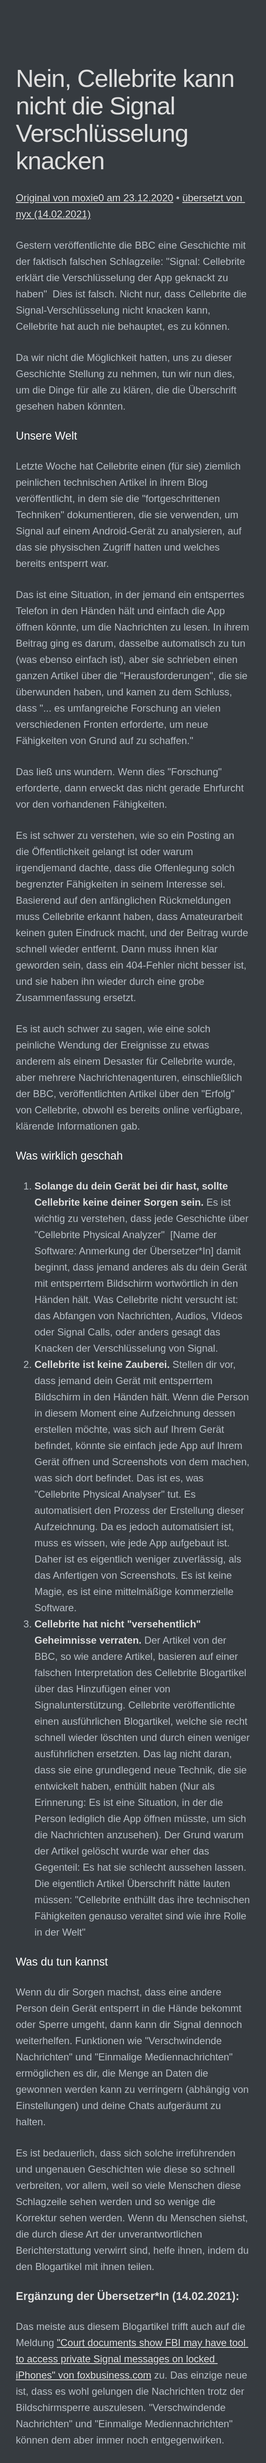
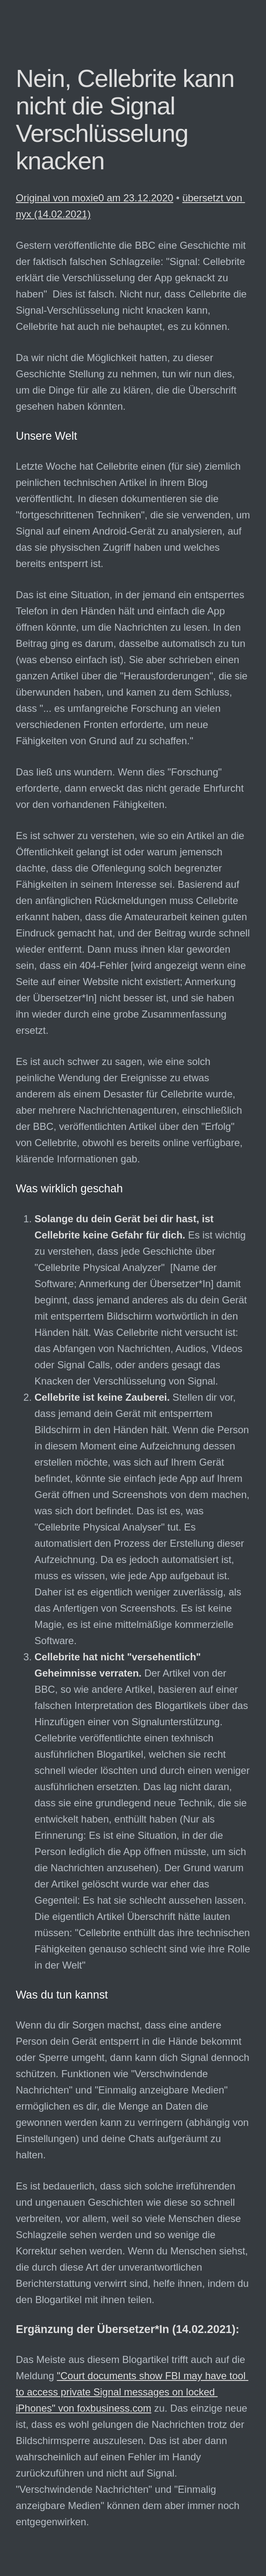
Fehler behoben

Changed region(s): [[0.0625, 0.0312, 0.9375, 0.9997]]

diff --git a/2020-12-23-Nein-Cellebrite-kann-nicht.html b/2020-12-23-Nein-Cellebrite-kann-nicht.html
@@ -1337,6 +1337,6 @@ footer.ty-footer {
 </style>
 </head>
 <body class='typora-export'>
-<div id='write'  class=''><h1><a name="nein-cellebrite-kann-nicht-die-signal-verschlüsselung-knacken" class="md-header-anchor"></a><span>Nein, Cellebrite kann nicht die Signal Verschlüsselung knacken</span></h1><p><a href='https://signal.org/blog/cellebrite-and-clickbait/'><span>Original von moxie0 am 23.12.2020</span></a><span> • </span><a href='https://twitter.com/nyx_zu_sehen'><span>übersetzt von nyx (14.02.2021)</span></a></p><p><span>Gestern veröffentlichte die BBC eine Geschichte mit der faktisch falschen Schlagzeile: &quot;Signal: Cellebrite erklärt die Verschlüsselung der App geknackt zu haben&quot;  Dies ist falsch. Nicht nur, dass Cellebrite die Signal-Verschlüsselung nicht knacken kann, Cellebrite hat auch nie behauptet, es zu können.</span></p><p><span>Da wir nicht die Möglichkeit hatten, uns zu dieser Geschichte Stellung zu nehmen, tun wir nun dies, um die Dinge für alle zu klären, die die Überschrift gesehen haben könnten.</span></p><h4><a name="unsere-welt" class="md-header-anchor"></a><span>Unsere Welt</span></h4><p><span>Letzte Woche hat Cellebrite einen (für sie) ziemlich peinlichen technischen Artikel in ihrem Blog veröffentlicht, in dem sie die &quot;fortgeschrittenen Techniken&quot; dokumentieren, die sie verwenden, um Signal auf einem Android-Gerät zu analysieren, auf das sie physischen Zugriff hatten und welches bereits entsperrt war. </span></p><p><span>Das ist eine Situation, in der jemand ein entsperrtes Telefon in den Händen hält und einfach die App öffnen könnte, um die Nachrichten zu lesen. In ihrem Beitrag ging es darum, dasselbe automatisch zu tun (was ebenso einfach ist), aber sie schrieben einen ganzen Artikel über die &quot;Herausforderungen&quot;, die sie überwunden haben, und kamen zu dem Schluss, dass &quot;... es umfangreiche Forschung an vielen verschiedenen Fronten erforderte, um neue Fähigkeiten von Grund auf zu schaffen.&quot;</span></p><p><span>Das ließ uns wundern. Wenn dies &quot;Forschung&quot; erforderte, dann erweckt das nicht gerade Ehrfurcht vor den vorhandenen Fähigkeiten.</span></p><p><span>Es ist schwer zu verstehen, wie so ein Posting an die Öffentlichkeit gelangt ist oder warum irgendjemand dachte, dass die Offenlegung solch begrenzter Fähigkeiten in seinem Interesse sei. Basierend auf den anfänglichen Rückmeldungen muss Cellebrite erkannt haben, dass Amateurarbeit keinen guten Eindruck macht, und der Beitrag wurde schnell wieder entfernt. Dann muss ihnen klar geworden sein, dass ein 404-Fehler nicht besser ist, und sie haben hn wieder durch eine grobe Zusammenfassung ersetzt.</span></p><p><span>Es ist auch schwer zu sagen, wie eine solch peinliche Wendung der Ereignisse zu etwas anderem als einem Desaster für Cellebrite wurde, aber mehrere Nachrichtenagenturen, einschließlich der BBC, veröffentlichten Artikel über den &quot;Erfolg&quot; von Cellebrite, obwohl es bereits online verfügbare, klärende Informationen gab.</span></p><h4><a name="was-wirklich-geschah" class="md-header-anchor"></a><span>Was wirklich geschah</span></h4><ol><li><strong><span>Solange du dein Gerät bei dir hast, sollte Cellebrite keine deiner Sorgen sein.</span></strong><span> Es ist wichtig zu verstehen, dass jede Geschichte über &quot;Cellebrite Physical Analyzer&quot;  [Name der Software: Anmerkung der Übersetzer*In] damit beginnt, dass jemand anderes als du dein Gerät mit entsperrtem Bildschirm wortwörtlich in den Händen hält. Was Cellebrite nicht versucht ist: das Abfangen von Nachrichten, Audios, VIdeos oder Signal Calls, oder anders gesagt das Knacken der Verschlüsselung von Signal.</span></li><li><strong><span>Cellebrite ist keine Zauberei.</span></strong><span> Stellen dir vor, dass jemand dein Gerät mit entsperrtem Bildschirm in den Händen hält. Wenn die Person in diesem Moment eine Aufzeichnung dessen erstellen möchte, was sich auf Ihrem Gerät befindet, könnte sie einfach jede App auf Ihrem Gerät öffnen und Screenshots von dem machen, was sich dort befindet. Das ist es, was &quot;Cellebrite Physical Analyser&quot; tut. Es automatisiert den Prozess der Erstellung dieser Aufzeichnung. Da es jedoch automatisiert ist, muss es wissen, wie jede App aufgebaut ist. Daher ist es eigentlich weniger zuverlässig, als das Anfertigen von Screenshots. Es ist keine Magie, es ist eine mittelmäßige kommerzielle Software.</span></li><li><strong><span>Cellebrite hat nicht &quot;versehentlich&quot; Geheimnisse verraten.</span></strong><span> Der Artikel von der BBC, so wie andere Artikel, basieren auf einer falschen Interpretation des Cellebrite Blogartikel über das Hinzufügen einer von Signalunterstützung. Cellebrite veröffentlichte einen ausführlichen Blogartikel, welche sie recht schnell wieder löschten und durch einen weniger ausführlichen ersetzten. Das lag nicht daran, dass sie eine grundlegend neue Technik, die sie entwickelt haben, enthüllt haben (Nur als Erinnerung: Es ist eine Situation, in der die Person lediglich die App öffnen müsste, um sich die Nachrichten anzusehen). Der Grund warum der Artikel gelöscht wurde war eher das Gegenteil: Es hat sie schlecht aussehen lassen. Die eigentlich Artikel Überschrift hätte lauten müssen: &quot;Cellebrite enthüllt das ihre technischen Fähigkeiten genauso veraltet sind wie ihre Rolle in der Welt&quot;</span></li></ol><h4><a name="was-du-tun-kannst" class="md-header-anchor"></a><span>Was du tun kannst</span></h4><p><span>Wenn du dir Sorgen machst, dass eine andere Person dein Gerät entsperrt in die Hände bekommt oder Sperre umgeht, dann kann dir Signal dennoch weiterhelfen. Funktionen wie &quot;Verschwindende Nachrichten&quot; und &quot;Einmalige Mediennachrichten&quot; ermöglichen es dir, die Menge an Daten die gewonnen werden kann zu verringern (abhängig von Einstellungen) und deine Chats aufgeräumt zu halten.</span></p><p><span>Es ist bedauerlich, dass sich solche irreführenden und ungenauen Geschichten wie diese so schnell verbreiten, vor allem, weil so viele Menschen diese Schlagzeile sehen werden und so wenige die Korrektur sehen werden. Wenn du Menschen siehst, die durch diese Art der unverantwortlichen Berichterstattung verwirrt sind, helfe ihnen, indem du den Blogartikel mit ihnen teilen.</span></p><h4><a name="ergänzung-der-übersetzerin-14022021" class="md-header-anchor"></a><strong><span>Ergänzung der Übersetzer</span><span>*</span><span>In (14.02.2021):</span></strong></h4><p><span>Das meiste aus diesem Blogartikel trifft auch auf die Meldung </span><a href='https://www.foxbusiness.com/technology/fbi-tool-access-private-signal-messages-locked-iphones'><span>&quot;Court documents show FBI may have tool to access private Signal messages on locked iPhones&quot; von foxbusiness.com</span></a><span> zu. Das einzige neue ist, dass es wohl gelungen die Nachrichten trotz der Bildschirmsperre auszulesen. &quot;Verschwindende Nachrichten&quot; und &quot;Einmalige Mediennachrichten&quot; können dem aber immer noch entgegenwirken. </span></p><p>&nbsp;</p></div>
+<div id='write'  class=''><h1><a name="nein-cellebrite-kann-nicht-die-signal-verschlüsselung-knacken" class="md-header-anchor"></a><span>Nein, Cellebrite kann nicht die Signal Verschlüsselung knacken</span></h1><p><a href='https://signal.org/blog/cellebrite-and-clickbait/'><span>Original von moxie0 am 23.12.2020</span></a><span> • </span><a href='https://twitter.com/nyx_zu_sehen'><span>übersetzt von nyx (14.02.2021)</span></a></p><p><span>Gestern veröffentlichte die BBC eine Geschichte mit der faktisch falschen Schlagzeile: &quot;Signal: Cellebrite erklärt die Verschlüsselung der App geknackt zu haben&quot;  Dies ist falsch. Nicht nur, dass Cellebrite die Signal-Verschlüsselung nicht knacken kann, Cellebrite hat auch nie behauptet, es zu können.</span></p><p><span>Da wir nicht die Möglichkeit hatten, zu dieser Geschichte Stellung zu nehmen, tun wir nun dies, um die Dinge für alle zu klären, die die Überschrift gesehen haben könnten.</span></p><h4><a name="unsere-welt" class="md-header-anchor"></a><span>Unsere Welt</span></h4><p><span>Letzte Woche hat Cellebrite einen (für sie) ziemlich peinlichen technischen Artikel in ihrem Blog veröffentlicht. In diesen dokumentieren sie die &quot;fortgeschrittenen Techniken&quot;, die sie verwenden, um Signal auf einem Android-Gerät zu analysieren, auf das sie physischen Zugriff haben und welches bereits entsperrt ist. </span></p><p><span>Das ist eine Situation, in der jemand ein entsperrtes Telefon in den Händen hält und einfach die App öffnen könnte, um die Nachrichten zu lesen. In den Beitrag ging es darum, dasselbe automatisch zu tun (was ebenso einfach ist). Sie aber schrieben einen ganzen Artikel über die &quot;Herausforderungen&quot;, die sie überwunden haben, und kamen zu dem Schluss, dass &quot;... es umfangreiche Forschung an vielen verschiedenen Fronten erforderte, um neue Fähigkeiten von Grund auf zu schaffen.&quot;</span></p><p><span>Das ließ uns wundern. Wenn dies &quot;Forschung&quot; erforderte, dann erweckt das nicht gerade Ehrfurcht vor den vorhandenen Fähigkeiten.</span></p><p><span>Es ist schwer zu verstehen, wie so ein Artikel an die Öffentlichkeit gelangt ist oder warum jemensch dachte, dass die Offenlegung solch begrenzter Fähigkeiten in seinem Interesse sei. Basierend auf den anfänglichen Rückmeldungen muss Cellebrite erkannt haben, dass die Amateurarbeit keinen guten Eindruck gemacht hat, und der Beitrag wurde schnell wieder entfernt. Dann muss ihnen klar geworden sein, dass ein 404-Fehler [wird angezeigt wenn eine Seite auf einer Website nicht existiert; Anmerkung der Übersetzer*In] nicht besser ist, und sie haben ihn wieder durch eine grobe Zusammenfassung ersetzt.</span></p><p><span>Es ist auch schwer zu sagen, wie eine solch peinliche Wendung der Ereignisse zu etwas anderem als einem Desaster für Cellebrite wurde, aber mehrere Nachrichtenagenturen, einschließlich der BBC, veröffentlichten Artikel über den &quot;Erfolg&quot; von Cellebrite, obwohl es bereits online verfügbare, klärende Informationen gab.</span></p><h4><a name="was-wirklich-geschah" class="md-header-anchor"></a><span>Was wirklich geschah</span></h4><ol><li><strong><span>Solange du dein Gerät bei dir hast, ist Cellebrite keine Gefahr für dich.</span></strong><span> Es ist wichtig zu verstehen, dass jede Geschichte über &quot;Cellebrite Physical Analyzer&quot;  [Name der Software; Anmerkung der Übersetzer*In] damit beginnt, dass jemand anderes als du dein Gerät mit entsperrtem Bildschirm wortwörtlich in den Händen hält. Was Cellebrite nicht versucht ist: das Abfangen von Nachrichten, Audios, VIdeos oder Signal Calls, oder anders gesagt das Knacken der Verschlüsselung von Signal.</span></li><li><strong><span>Cellebrite ist keine Zauberei.</span></strong><span> Stellen dir vor, dass jemand dein Gerät mit entsperrtem Bildschirm in den Händen hält. Wenn die Person in diesem Moment eine Aufzeichnung dessen erstellen möchte, was sich auf Ihrem Gerät befindet, könnte sie einfach jede App auf Ihrem Gerät öffnen und Screenshots von dem machen, was sich dort befindet. Das ist es, was &quot;Cellebrite Physical Analyser&quot; tut. Es automatisiert den Prozess der Erstellung dieser Aufzeichnung. Da es jedoch automatisiert ist, muss es wissen, wie jede App aufgebaut ist. Daher ist es eigentlich weniger zuverlässig, als das Anfertigen von Screenshots. Es ist keine Magie, es ist eine mittelmäßige kommerzielle Software.</span></li><li><strong><span>Cellebrite hat nicht &quot;versehentlich&quot; Geheimnisse verraten.</span></strong><span> Der Artikel von der BBC, so wie andere Artikel, basieren auf einer falschen Interpretation des Blogartikels über das Hinzufügen einer von Signalunterstützung. Cellebrite veröffentlichte einen texhnisch ausführlichen Blogartikel, welchen sie recht schnell wieder löschten und durch einen weniger ausführlichen ersetzten. Das lag nicht daran, dass sie eine grundlegend neue Technik, die sie entwickelt haben, enthüllt haben (Nur als Erinnerung: Es ist eine Situation, in der die Person lediglich die App öffnen müsste, um sich die Nachrichten anzusehen). Der Grund warum der Artikel gelöscht wurde war eher das Gegenteil: Es hat sie schlecht aussehen lassen. Die eigentlich Artikel Überschrift hätte lauten müssen: &quot;Cellebrite enthüllt das ihre technischen Fähigkeiten genauso schlecht sind wie ihre Rolle in der Welt&quot; </span></li></ol><h4><a name="was-du-tun-kannst" class="md-header-anchor"></a><span>Was du tun kannst</span></h4><p><span>Wenn du dir Sorgen machst, dass eine andere Person dein Gerät entsperrt in die Hände bekommt oder Sperre umgeht, dann kann dich Signal dennoch schützen. Funktionen wie &quot;Verschwindende Nachrichten&quot; und &quot;Einmalig anzeigbare Medien&quot; ermöglichen es dir, die Menge an Daten die gewonnen werden kann zu verringern (abhängig von Einstellungen) und deine Chats aufgeräumt zu halten.</span></p><p><span>Es ist bedauerlich, dass sich solche irreführenden und ungenauen Geschichten wie diese so schnell verbreiten, vor allem, weil so viele Menschen diese Schlagzeile sehen werden und so wenige die Korrektur sehen werden. Wenn du Menschen siehst, die durch diese Art der unverantwortlichen Berichterstattung verwirrt sind, helfe ihnen, indem du den Blogartikel mit ihnen teilen.</span></p><h4><a name="ergänzung-der-übersetzerin-14022021" class="md-header-anchor"></a><strong><span>Ergänzung der Übersetzer</span><span>*</span><span>In (14.02.2021):</span></strong></h4><p><span>Das Meiste aus diesem Blogartikel trifft auch auf die Meldung </span><a href='https://www.foxbusiness.com/technology/fbi-tool-access-private-signal-messages-locked-iphones'><span>&quot;Court documents show FBI may have tool to access private Signal messages on locked iPhones&quot; von foxbusiness.com</span></a><span> zu. Das einzige neue ist, dass es wohl gelungen die Nachrichten trotz der Bildschirmsperre auszulesen. Das ist aber dann wahrscheinlich auf einen Fehler im Handy zurückzuführen und nicht auf Signal. &quot;Verschwindende Nachrichten&quot; und &quot;Einmalig anzeigbare Medien&quot; können dem aber immer noch entgegenwirken. </span></p><p>&nbsp;</p></div>
 </body>
 </html>

diff --git a/2020-12-23-Nein-Cellebrite-kann-nicht.md b/2020-12-23-Nein-Cellebrite-kann-nicht.md
@@ -4,32 +4,33 @@
 
 Gestern veröffentlichte die BBC eine Geschichte mit der faktisch falschen Schlagzeile: "Signal: Cellebrite erklärt die Verschlüsselung der App geknackt zu haben"  Dies ist falsch. Nicht nur, dass Cellebrite die Signal-Verschlüsselung nicht knacken kann, Cellebrite hat auch nie behauptet, es zu können.
 
-Da wir nicht die Möglichkeit hatten, uns zu dieser Geschichte Stellung zu nehmen, tun wir nun dies, um die Dinge für alle zu klären, die die Überschrift gesehen haben könnten.
+Da wir nicht die Möglichkeit hatten, zu dieser Geschichte Stellung zu nehmen, tun wir nun dies, um die Dinge für alle zu klären, die die Überschrift gesehen haben könnten.
 
 #### Unsere Welt
 
-Letzte Woche hat Cellebrite einen (für sie) ziemlich peinlichen technischen Artikel in ihrem Blog veröffentlicht, in dem sie die "fortgeschrittenen Techniken" dokumentieren, die sie verwenden, um Signal auf einem Android-Gerät zu analysieren, auf das sie physischen Zugriff hatten und welches bereits entsperrt war. 
+Letzte Woche hat Cellebrite einen (für sie) ziemlich peinlichen technischen Artikel in ihrem Blog veröffentlicht. In diesen dokumentieren sie die "fortgeschrittenen Techniken", die sie verwenden, um Signal auf einem Android-Gerät zu analysieren, auf das sie physischen Zugriff haben und welches bereits entsperrt ist. 
 
-Das ist eine Situation, in der jemand ein entsperrtes Telefon in den Händen hält und einfach die App öffnen könnte, um die Nachrichten zu lesen. In ihrem Beitrag ging es darum, dasselbe automatisch zu tun (was ebenso einfach ist), aber sie schrieben einen ganzen Artikel über die "Herausforderungen", die sie überwunden haben, und kamen zu dem Schluss, dass "... es umfangreiche Forschung an vielen verschiedenen Fronten erforderte, um neue Fähigkeiten von Grund auf zu schaffen."
+Das ist eine Situation, in der jemand ein entsperrtes Telefon in den Händen hält und einfach die App öffnen könnte, um die Nachrichten zu lesen. In den Beitrag ging es darum, dasselbe automatisch zu tun (was ebenso einfach ist). Sie aber schrieben einen ganzen Artikel über die "Herausforderungen", die sie überwunden haben, und kamen zu dem Schluss, dass "... es umfangreiche Forschung an vielen verschiedenen Fronten erforderte, um neue Fähigkeiten von Grund auf zu schaffen."
 
 Das ließ uns wundern. Wenn dies "Forschung" erforderte, dann erweckt das nicht gerade Ehrfurcht vor den vorhandenen Fähigkeiten.
 
-Es ist schwer zu verstehen, wie so ein Posting an die Öffentlichkeit gelangt ist oder warum irgendjemand dachte, dass die Offenlegung solch begrenzter Fähigkeiten in seinem Interesse sei. Basierend auf den anfänglichen Rückmeldungen muss Cellebrite erkannt haben, dass Amateurarbeit keinen guten Eindruck macht, und der Beitrag wurde schnell wieder entfernt. Dann muss ihnen klar geworden sein, dass ein 404-Fehler nicht besser ist, und sie haben ihn wieder durch eine grobe Zusammenfassung ersetzt.
+Es ist schwer zu verstehen, wie so ein Artikel an die Öffentlichkeit gelangt ist oder warum jemensch dachte, dass die Offenlegung solch begrenzter Fähigkeiten in seinem Interesse sei. Basierend auf den anfänglichen Rückmeldungen muss Cellebrite erkannt haben, dass die Amateurarbeit keinen guten Eindruck gemacht hat, und der Beitrag wurde schnell wieder entfernt. Dann muss ihnen klar geworden sein, dass ein 404-Fehler [wird angezeigt wenn eine Seite auf einer Website nicht existiert; Anmerkung der Übersetzer*In] nicht besser ist, und sie haben ihn wieder durch eine grobe Zusammenfassung ersetzt.
 
 Es ist auch schwer zu sagen, wie eine solch peinliche Wendung der Ereignisse zu etwas anderem als einem Desaster für Cellebrite wurde, aber mehrere Nachrichtenagenturen, einschließlich der BBC, veröffentlichten Artikel über den "Erfolg" von Cellebrite, obwohl es bereits online verfügbare, klärende Informationen gab.
 
 #### Was wirklich geschah
 
-1. **Solange du dein Gerät bei dir hast, sollte Cellebrite keine deiner Sorgen sein.** Es ist wichtig zu verstehen, dass jede Geschichte über "Cellebrite Physical Analyzer"  [Name der Software: Anmerkung der Übersetzer*In] damit beginnt, dass jemand anderes als du dein Gerät mit entsperrtem Bildschirm wortwörtlich in den Händen hält. Was Cellebrite nicht versucht ist: das Abfangen von Nachrichten, Audios, VIdeos oder Signal Calls, oder anders gesagt das Knacken der Verschlüsselung von Signal.
+1. **Solange du dein Gerät bei dir hast, ist Cellebrite keine Gefahr für dich.** Es ist wichtig zu verstehen, dass jede Geschichte über "Cellebrite Physical Analyzer"  [Name der Software; Anmerkung der Übersetzer*In] damit beginnt, dass jemand anderes als du dein Gerät mit entsperrtem Bildschirm wortwörtlich in den Händen hält. Was Cellebrite nicht versucht ist: das Abfangen von Nachrichten, Audios, VIdeos oder Signal Calls, oder anders gesagt das Knacken der Verschlüsselung von Signal.
 2. **Cellebrite ist keine Zauberei.** Stellen dir vor, dass jemand dein Gerät mit entsperrtem Bildschirm in den Händen hält. Wenn die Person in diesem Moment eine Aufzeichnung dessen erstellen möchte, was sich auf Ihrem Gerät befindet, könnte sie einfach jede App auf Ihrem Gerät öffnen und Screenshots von dem machen, was sich dort befindet. Das ist es, was "Cellebrite Physical Analyser" tut. Es automatisiert den Prozess der Erstellung dieser Aufzeichnung. Da es jedoch automatisiert ist, muss es wissen, wie jede App aufgebaut ist. Daher ist es eigentlich weniger zuverlässig, als das Anfertigen von Screenshots. Es ist keine Magie, es ist eine mittelmäßige kommerzielle Software.
-3. **Cellebrite hat nicht "versehentlich" Geheimnisse verraten.** Der Artikel von der BBC, so wie andere Artikel, basieren auf einer falschen Interpretation des Cellebrite Blogartikel über das Hinzufügen einer von Signalunterstützung. Cellebrite veröffentlichte einen ausführlichen Blogartikel, welche sie recht schnell wieder löschten und durch einen weniger ausführlichen ersetzten. Das lag nicht daran, dass sie eine grundlegend neue Technik, die sie entwickelt haben, enthüllt haben (Nur als Erinnerung: Es ist eine Situation, in der die Person lediglich die App öffnen müsste, um sich die Nachrichten anzusehen). Der Grund warum der Artikel gelöscht wurde war eher das Gegenteil: Es hat sie schlecht aussehen lassen. Die eigentlich Artikel Überschrift hätte lauten müssen: "Cellebrite enthüllt das ihre technischen Fähigkeiten genauso veraltet sind wie ihre Rolle in der Welt"
+3. **Cellebrite hat nicht "versehentlich" Geheimnisse verraten.** Der Artikel von der BBC, so wie andere Artikel, basieren auf einer falschen Interpretation des Blogartikels über das Hinzufügen einer von Signalunterstützung. Cellebrite veröffentlichte einen texhnisch ausführlichen Blogartikel, welchen sie recht schnell wieder löschten und durch einen weniger ausführlichen ersetzten. Das lag nicht daran, dass sie eine grundlegend neue Technik, die sie entwickelt haben, enthüllt haben (Nur als Erinnerung: Es ist eine Situation, in der die Person lediglich die App öffnen müsste, um sich die Nachrichten anzusehen). Der Grund warum der Artikel gelöscht wurde war eher das Gegenteil: Es hat sie schlecht aussehen lassen. Die eigentlich Artikel Überschrift hätte lauten müssen: "Cellebrite enthüllt das ihre technischen Fähigkeiten genauso schlecht sind wie ihre Rolle in der Welt" 
 
 #### Was du tun kannst
 
-Wenn du dir Sorgen machst, dass eine andere Person dein Gerät entsperrt in die Hände bekommt oder Sperre umgeht, dann kann dir Signal dennoch weiterhelfen. Funktionen wie "Verschwindende Nachrichten" und "Einmalige Mediennachrichten" ermöglichen es dir, die Menge an Daten die gewonnen werden kann zu verringern (abhängig von Einstellungen) und deine Chats aufgeräumt zu halten.
+Wenn du dir Sorgen machst, dass eine andere Person dein Gerät entsperrt in die Hände bekommt oder Sperre umgeht, dann kann dich Signal dennoch schützen. Funktionen wie "Verschwindende Nachrichten" und "Einmalig anzeigbare Medien" ermöglichen es dir, die Menge an Daten die gewonnen werden kann zu verringern (abhängig von Einstellungen) und deine Chats aufgeräumt zu halten.
 
 Es ist bedauerlich, dass sich solche irreführenden und ungenauen Geschichten wie diese so schnell verbreiten, vor allem, weil so viele Menschen diese Schlagzeile sehen werden und so wenige die Korrektur sehen werden. Wenn du Menschen siehst, die durch diese Art der unverantwortlichen Berichterstattung verwirrt sind, helfe ihnen, indem du den Blogartikel mit ihnen teilen.
 
 #### **Ergänzung der Übersetzer\*In (14.02.2021):**
 
-Das meiste aus diesem Blogartikel trifft auch auf die Meldung ["Court documents show FBI may have tool to access private Signal messages on locked iPhones" von foxbusiness.com](https://www.foxbusiness.com/technology/fbi-tool-access-private-signal-messages-locked-iphones) zu. Das einzige neue ist, dass es wohl gelungen die Nachrichten trotz der Bildschirmsperre auszulesen. "Verschwindende Nachrichten" und "Einmalige Mediennachrichten" können dem aber immer noch entgegenwirken. 
+Das Meiste aus diesem Blogartikel trifft auch auf die Meldung ["Court documents show FBI may have tool to access private Signal messages on locked iPhones" von foxbusiness.com](https://www.foxbusiness.com/technology/fbi-tool-access-private-signal-messages-locked-iphones) zu. Das einzige neue ist, dass es wohl gelungen die Nachrichten trotz der Bildschirmsperre auszulesen. Das ist aber dann wahrscheinlich auf einen Fehler im Handy zurückzuführen und nicht auf Signal. "Verschwindende Nachrichten" und "Einmalig anzeigbare Medien" können dem aber immer noch entgegenwirken. 
+
